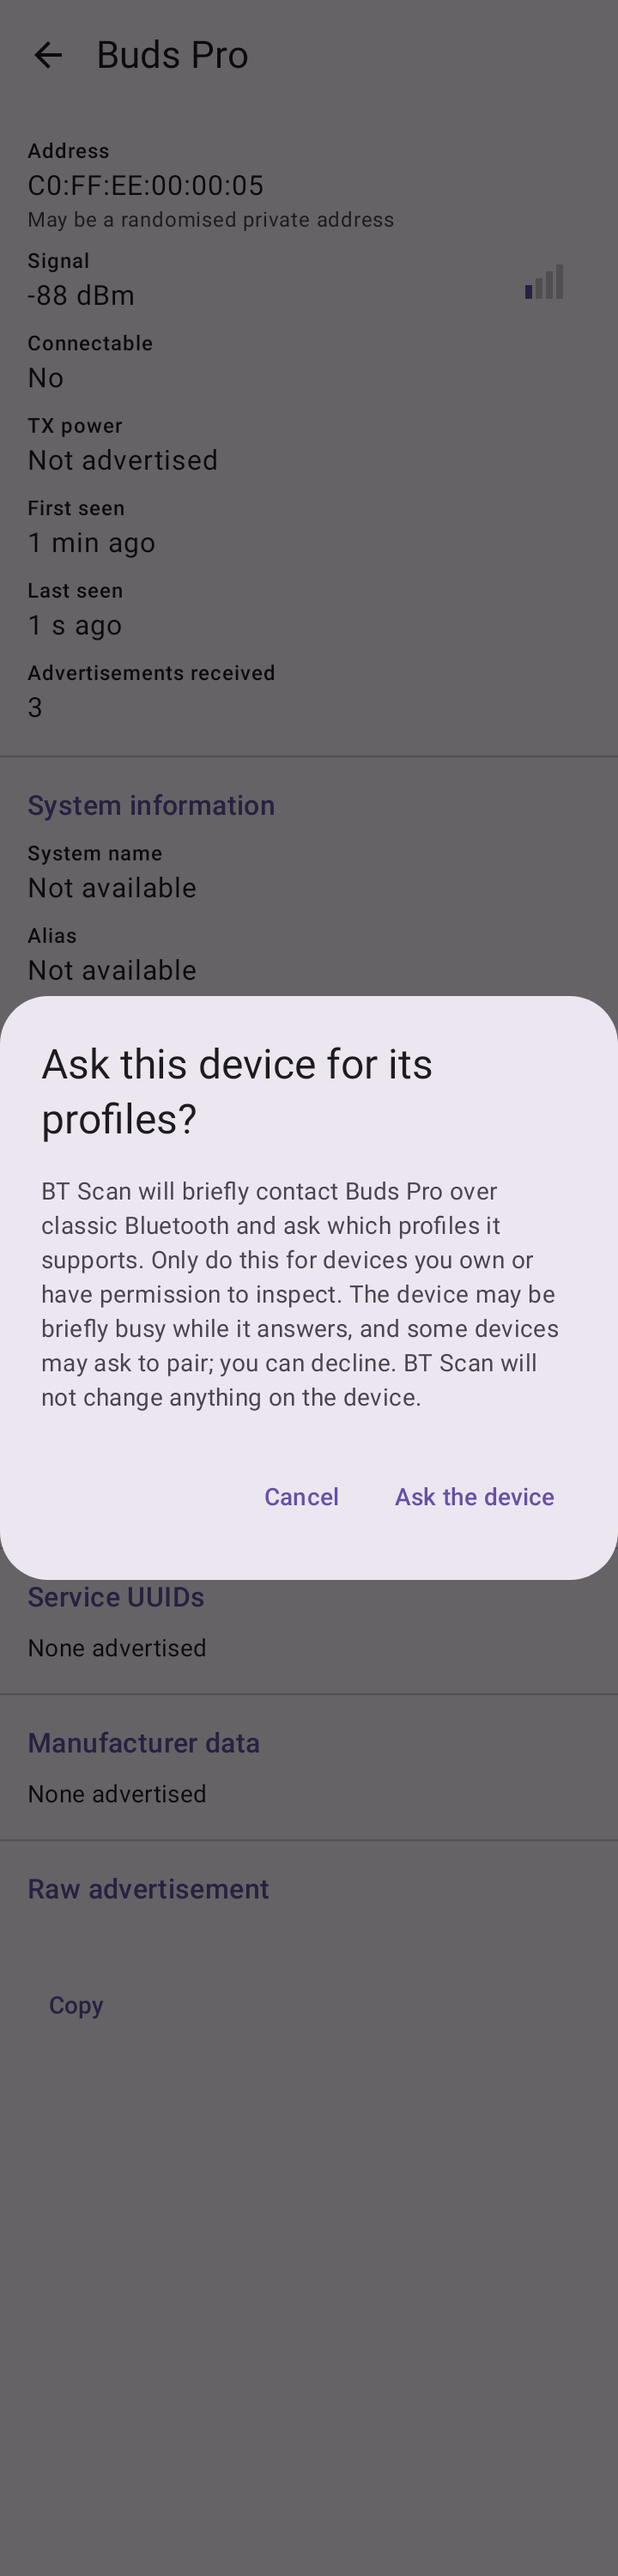
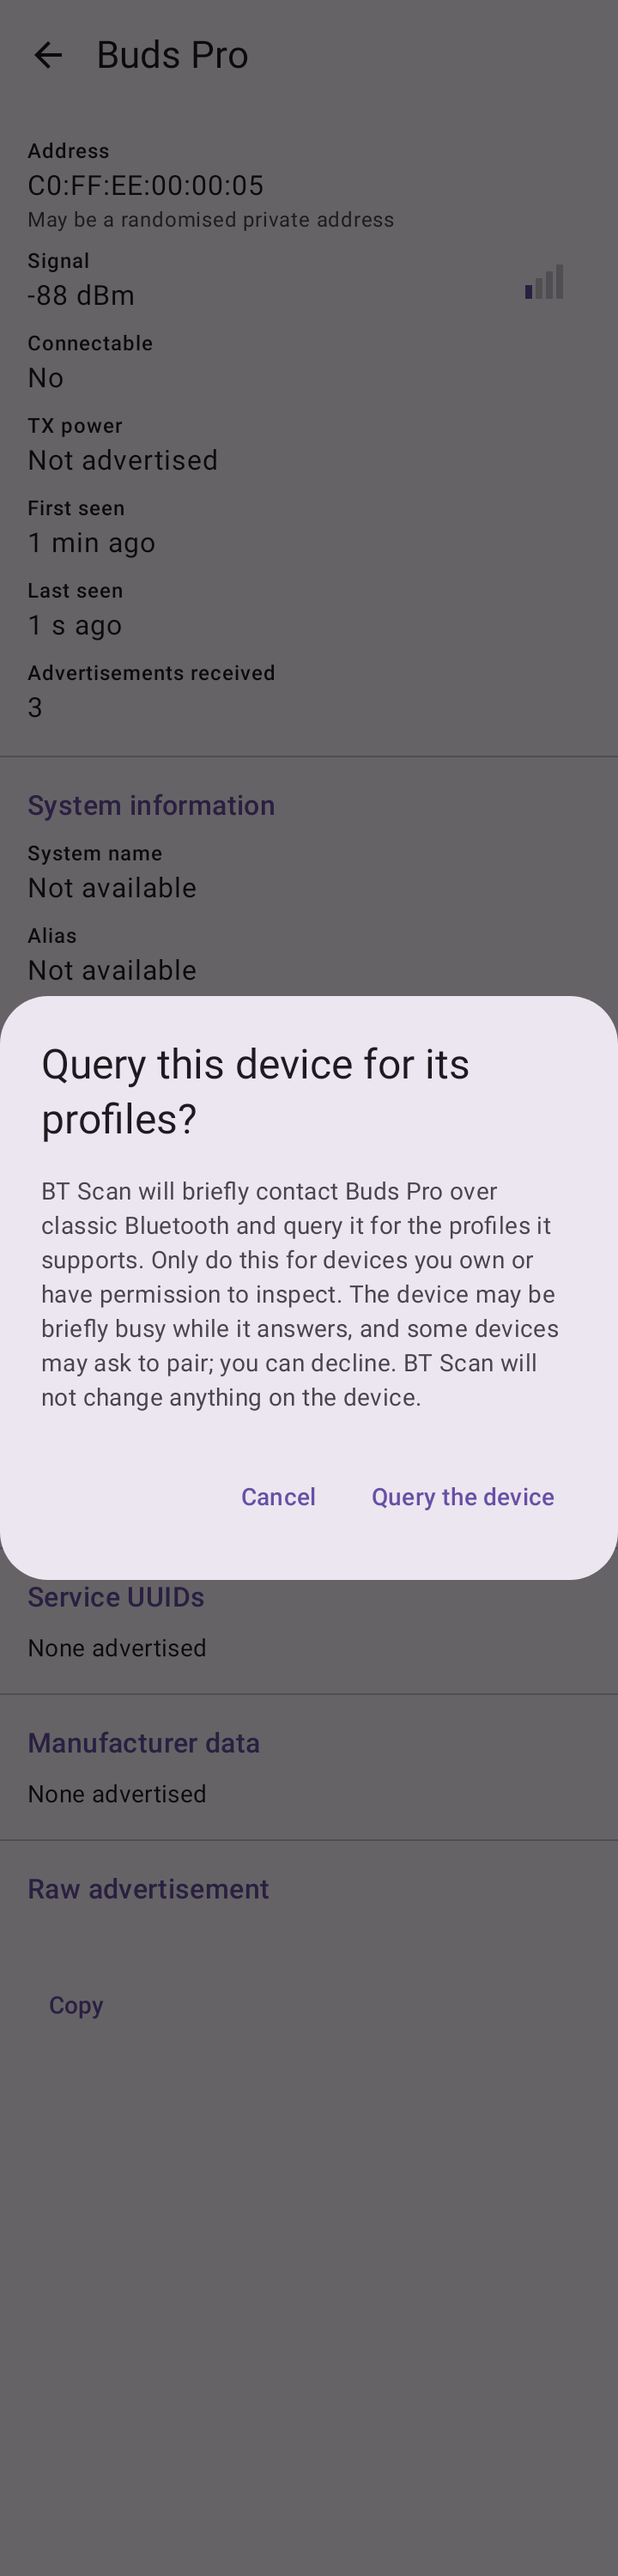
Reword the profile lookup text from "ask" to "query"; record owner approval
All user-visible text about contacting a device now says query (dialog, button,
progress, results, timeout, "could not query", and the System information
permission sentence). "Some devices may ask to pair" and the permission-request
wording keep "ask": there the device or the app asks the user. The fake lookup's
call log is renamed asked -> queried, ask() -> query(), tests and smoke labels
follow, and the detail screenshots are re-recorded. Docs updated. The owner
approved the revised wording on 2026-11-17 (lookup dialog and texts, and the two
changed System information sentences); the classic scan notice stays awaiting
review. Full gate passes.

diff --git a/app/src/test/kotlin/dev/danielhood/btscan/ui/detail/ProfileLookupGateTest.kt b/app/src/test/kotlin/dev/danielhood/btscan/ui/detail/ProfileLookupGateTest.kt
@@ -38,7 +38,7 @@ import java.util.UUID
 /**
  * The UI gate for the classic service lookup. Unlike every other read in the app it CONTACTS the device, so it only
  * ever happens after the user tapped the button for that device and confirmed a dialog naming it, every time. The
- * port's call log (`asked`) is the evidence: it must stay empty on every other path.
+ * port's call log (`queried`) is the evidence: it must stay empty on every other path.
  */
 @OptIn(ExperimentalCoroutinesApi::class)
 class ProfileLookupGateTest {
@@ -102,18 +102,18 @@ class ProfileLookupGateTest {
     }
 
     @Test
-    fun `tapping the button shows the confirmation and asks nobody`() =
+    fun `tapping the button shows the confirmation and queries nobody`() =
         runTest {
             val r = rig()
             assertTrue(r.state.canLookUpProfiles)
             r.vm.onLookUpProfilesClicked()
             advance(0)
             assertEquals(ProfileLookupState.Confirming, r.state.profiles)
-            assertTrue("nothing has contacted the device", r.lookup.asked.isEmpty())
+            assertTrue("nothing has contacted the device", r.lookup.queried.isEmpty())
         }
 
     @Test
-    fun `cancelling asks nobody and the next tap asks for confirmation again`() =
+    fun `cancelling queries nobody and the next tap shows the confirmation again`() =
         runTest {
             val r = rig()
             r.vm.onLookUpProfilesClicked()
@@ -123,17 +123,17 @@ class ProfileLookupGateTest {
             r.vm.onLookUpProfilesClicked()
             advance(0)
             assertEquals(ProfileLookupState.Confirming, r.state.profiles)
-            assertTrue(r.lookup.asked.isEmpty())
+            assertTrue(r.lookup.queried.isEmpty())
         }
 
     @Test
-    fun `confirming asks exactly this device once and shows the profiles`() =
+    fun `confirming queries exactly this device once and shows the profiles`() =
         runTest {
             val r = rig()
             r.vm.onLookUpProfilesClicked()
             r.vm.confirmProfileLookup()
             advance(0)
-            assertEquals(listOf(r.address), r.lookup.asked)
+            assertEquals(listOf(r.address), r.lookup.queried)
             assertEquals(ProfileLookupState.Done(listOf(a2dp, hfp)), r.state.profiles)
         }
 
@@ -144,11 +144,11 @@ class ProfileLookupGateTest {
             r.vm.confirmProfileLookup() // no tap, no dialog
             advance(100)
             assertEquals(ProfileLookupState.Idle, r.state.profiles)
-            assertTrue("a stray confirm cannot contact a device", r.lookup.asked.isEmpty())
+            assertTrue("a stray confirm cannot contact a device", r.lookup.queried.isEmpty())
         }
 
     @Test
-    fun `no other path asks a device`() =
+    fun `no other path queries a device`() =
         runTest {
             val r = rig(permission = PermissionState.Denied(canAskAgain = true))
             r.permissions.connect = PermissionState.Granted
@@ -158,7 +158,7 @@ class ProfileLookupGateTest {
             r.vm.dismissProfileLookup()
             r.vm.cancelProfileLookup()
             advance(100)
-            assertTrue("system information loads without asking the device", r.lookup.asked.isEmpty())
+            assertTrue("system information loads without querying the device", r.lookup.queried.isEmpty())
             assertTrue(r.state.systemInfo is SystemInfoState.Loaded)
         }
 
@@ -169,14 +169,14 @@ class ProfileLookupGateTest {
             r.vm.onLookUpProfilesClicked()
             r.vm.confirmProfileLookup()
             advance(0)
-            assertEquals(1, r.lookup.asked.size)
+            assertEquals(1, r.lookup.queried.size)
             r.vm.onLookUpProfilesClicked()
             advance(0)
-            assertEquals("asked again before anything is sent", ProfileLookupState.Confirming, r.state.profiles)
-            assertEquals(1, r.lookup.asked.size)
+            assertEquals("queried again before anything is sent", ProfileLookupState.Confirming, r.state.profiles)
+            assertEquals(1, r.lookup.queried.size)
             r.vm.confirmProfileLookup()
             advance(0)
-            assertEquals(2, r.lookup.asked.size)
+            assertEquals(2, r.lookup.queried.size)
         }
 
     @Test
@@ -187,7 +187,7 @@ class ProfileLookupGateTest {
             r.vm.onLookUpProfilesClicked()
             advance(0)
             assertEquals(ProfileLookupState.Idle, r.state.profiles)
-            assertTrue(r.lookup.asked.isEmpty())
+            assertTrue(r.lookup.queried.isEmpty())
         }
 
     @Test
@@ -218,7 +218,7 @@ class ProfileLookupGateTest {
             assertEquals(ProfileLookupState.Running, r.state.profiles)
             advance(200)
             assertEquals(ProfileLookupState.TimedOut, r.state.profiles)
-            assertEquals(1, r.lookup.asked.size)
+            assertEquals(1, r.lookup.queried.size)
         }
 
     @Test
@@ -233,7 +233,7 @@ class ProfileLookupGateTest {
             advance(100)
             assertEquals(ProfileLookupState.Running, r.state.profiles)
             advance(2_000)
-            assertEquals(1, r.lookup.asked.size)
+            assertEquals(1, r.lookup.queried.size)
             assertTrue(r.state.profiles is ProfileLookupState.Done)
         }
 
@@ -296,7 +296,7 @@ class ProfileLookupGateTest {
             advance(0)
             advance(0) // the quiet refresh is launched by the lookup's own coroutine
             assertEquals("a second read of the cache, not a second question to the device", 2, source.lookups.size)
-            assertEquals(1, r.lookup.asked.size)
+            assertEquals(1, r.lookup.queried.size)
             val loaded = r.state.systemInfo as SystemInfoState.Loaded
             assertEquals(listOf(a2dp), loaded.info.cachedUuids)
             assertEquals(BondState.BONDING, loaded.info.bondState)

diff --git a/app/src/test/kotlin/dev/danielhood/btscan/ui/detail/DeviceDetailContentTest.kt b/app/src/test/kotlin/dev/danielhood/btscan/ui/detail/DeviceDetailContentTest.kt
@@ -295,7 +295,7 @@ class DeviceDetailContentTest {
         rule
             .onNodeWithTag(
                 TestTags.SYSTEM_INFO_MESSAGE,
-            ).assertTextContains("contacts a device only when you ask it to", substring = true)
+            ).assertTextContains("contacts a device only when you choose to query it", substring = true)
         rule.onNodeWithTag(TestTags.SYSTEM_INFO_ALLOW_BUTTON).performClick()
         assertEquals(listOf("allow"), calls)
         rule.onNodeWithTag(TestTags.SYSTEM_INFO_SETTINGS_BUTTON).assertDoesNotExist()
@@ -384,7 +384,7 @@ class DeviceDetailContentTest {
             ).performScrollTo()
             .assertTextEquals("Look up supported profiles")
             .performClick()
-        assertEquals("a tap only asks to confirm", listOf("lookup"), calls)
+        assertEquals("a tap only opens the confirmation", listOf("lookup"), calls)
         rule.onNodeWithTag(ProfileTags.DIALOG).assertDoesNotExist()
     }
 
@@ -395,7 +395,7 @@ class DeviceDetailContentTest {
     }
 
     @Test
-    fun `the confirmation names the device, warns, and only Ask the device confirms`() {
+    fun `the confirmation names the device, warns, and only Query the device confirms`() {
         show(lookup(ProfileLookupState.Confirming))
         rule.onNodeWithTag(ProfileTags.DIALOG).assertExists()
         rule
@@ -418,18 +418,22 @@ class DeviceDetailContentTest {
     fun `the button is disabled while a lookup runs and the progress text shows`() {
         show(lookup(ProfileLookupState.Running))
         rule.onNodeWithTag(ProfileTags.BUTTON).assertIsNotEnabled()
-        rule.onNodeWithTag(ProfileTags.RUNNING).assertTextEquals("Asking the device\u2026")
+        rule.onNodeWithTag(ProfileTags.RUNNING).assertTextEquals("Querying the device\u2026")
     }
 
     @Test
-    fun `answers are shown with friendly names and say they were asked just now`() {
+    fun `answers are shown with friendly names and say they were queried just now`() {
         val uuids =
             listOf(0x110B, 0x111E).map {
                 dev.danielhood.btscan.domain.parser.AdvertisementParser
                     .uuidFromShort(it.toLong())
             }
         show(lookup(ProfileLookupState.Done(uuids)))
-        rule.onNodeWithTag(ProfileTags.HEADER).performScrollTo().assertTextEquals("Supported profiles (asked just now)")
+        rule
+            .onNodeWithTag(
+                ProfileTags.HEADER,
+            ).performScrollTo()
+            .assertTextEquals("Supported profiles (queried just now)")
         rule.onNodeWithTag(ProfileTags.name(0)).assertTextEquals("A2DP Audio Sink")
         rule.onNodeWithTag(ProfileTags.name(1)).assertTextEquals("Hands-Free")
         rule.onNodeWithText("BT Scan changes nothing on it.", substring = true).assertExists()
@@ -448,8 +452,8 @@ class DeviceDetailContentTest {
     }
 
     @Test
-    fun `a refused query says android could not ask`() {
+    fun `a refused query says android could not query`() {
         show(lookup(ProfileLookupState.NotStarted))
-        rule.onNodeWithTag(ProfileTags.NOT_STARTED).assertTextEquals("Android could not ask this device.")
+        rule.onNodeWithTag(ProfileTags.NOT_STARTED).assertTextEquals("Android could not query this device.")
     }
 }

diff --git a/app/src/debug/kotlin/dev/danielhood/btscan/data/ble/fake/FakeProfileLookup.kt b/app/src/debug/kotlin/dev/danielhood/btscan/data/ble/fake/FakeProfileLookup.kt
@@ -8,7 +8,7 @@ import kotlinx.coroutines.awaitCancellation
 import kotlinx.coroutines.delay
 import java.util.UUID
 
-/** What a fake device does when asked which profiles it supports. */
+/** What a fake device does when queried for the profiles it supports. */
 sealed interface FakeProfileBehaviour {
     /** Answers with [uuids] after [delayMs]. */
     data class Answers(
@@ -31,12 +31,12 @@ class FakeProfileLookup(
     private val permissions: PermissionChecker,
     private val behaviours: Map<String, FakeProfileBehaviour>,
 ) : ProfileLookup {
-    /** Addresses that were asked, in order (a test or smoke script can assert that nothing was asked unprompted). */
-    val asked = mutableListOf<String>()
+    /** Addresses that were queried, in order (tests and smoke scripts assert nothing is queried unprompted). */
+    val queried = mutableListOf<String>()
 
     override suspend fun fetchProfiles(address: String): ProfileLookupResult {
         if (permissions.connectState() !is PermissionState.Granted) return ProfileLookupResult.PermissionMissing
-        asked += address
+        queried += address
         return when (val behaviour = behaviours[address]) {
             is FakeProfileBehaviour.Answers -> {
                 delay(behaviour.delayMs)

diff --git a/app/src/test/kotlin/dev/danielhood/btscan/data/ble/fake/FakeProfileLookupTest.kt b/app/src/test/kotlin/dev/danielhood/btscan/data/ble/fake/FakeProfileLookupTest.kt
@@ -25,7 +25,7 @@ class FakeProfileLookupTest {
             val fake = lookup()
             val result = fake.fetchProfiles(addresses[0])
             assertEquals(4, (result as ProfileLookupResult.Profiles).uuids.size)
-            assertEquals(listOf(addresses[0]), fake.asked)
+            assertEquals(listOf(addresses[0]), fake.queried)
         }
 
     @Test
@@ -46,11 +46,11 @@ class FakeProfileLookupTest {
         }
 
     @Test
-    fun `the fake honours the real permission and asks nobody without it`() =
+    fun `the fake honours the real permission and queries nobody without it`() =
         runTest {
             val permissions = FakePermissionChecker(connect = PermissionState.Denied(canAskAgain = true))
             val fake = lookup(permissions)
             assertEquals(ProfileLookupResult.PermissionMissing, fake.fetchProfiles(addresses[0]))
-            assertTrue(fake.asked.isEmpty())
+            assertTrue(fake.queried.isEmpty())
         }
 }

diff --git a/app/src/test/kotlin/dev/danielhood/btscan/testing/TestSupport.kt b/app/src/test/kotlin/dev/danielhood/btscan/testing/TestSupport.kt
@@ -53,7 +53,7 @@ class FakePermissionChecker(
 }
 
 /**
- * Profile lookup whose answer the test sets; records every address it was asked, which is the evidence that a
+ * Profile lookup whose answer the test sets; records every address it was queried for, which is the evidence that a
  * lookup (which contacts the device) never happens without the user's confirmation. [silent] never answers.
  */
 class ManualProfileLookup(
@@ -61,10 +61,10 @@ class ManualProfileLookup(
     var silent: Boolean = false,
     var delayMs: Long = 0,
 ) : ProfileLookup {
-    val asked = mutableListOf<String>()
+    val queried = mutableListOf<String>()
 
     override suspend fun fetchProfiles(address: String): ProfileLookupResult {
-        asked += address
+        queried += address
         if (silent) awaitCancellation()
         if (delayMs > 0) delay(delayMs)
         return result

diff --git a/app/src/main/kotlin/dev/danielhood/btscan/ui/detail/DeviceDetailUiState.kt b/app/src/main/kotlin/dev/danielhood/btscan/ui/detail/DeviceDetailUiState.kt
@@ -78,9 +78,9 @@ sealed interface SystemInfoState {
 }
 
 /**
- * Asking a device which profiles it supports (Tier 2c). This CONTACTS the device, so it never leaves [Idle] without an
- * explicit tap, and [Confirming] (a dialog naming the device) always comes first: nothing has contacted it until the
- * user confirms. There is no "remember my answer".
+ * Querying a device for the profiles it supports (Tier 2c). This CONTACTS the device, so it never leaves [Idle]
+ * without an explicit tap, and [Confirming] (a dialog naming the device) always comes first: nothing has contacted
+ * it until the user confirms. There is no "remember my answer".
  */
 sealed interface ProfileLookupState {
     data object Idle : ProfileLookupState

diff --git a/app/src/main/kotlin/dev/danielhood/btscan/data/ble/android/AndroidProfileLookup.kt b/app/src/main/kotlin/dev/danielhood/btscan/data/ble/android/AndroidProfileLookup.kt
@@ -34,11 +34,11 @@ class AndroidProfileLookup(
         return when {
             permissions.connectState() !is PermissionState.Granted -> ProfileLookupResult.PermissionMissing
             adapter == null || !BluetoothAdapter.checkBluetoothAddress(address) -> ProfileLookupResult.NotStarted
-            else -> ask(adapter.getRemoteDevice(address))
+            else -> query(adapter.getRemoteDevice(address))
         }
     }
 
-    private suspend fun ask(device: BluetoothDevice): ProfileLookupResult =
+    private suspend fun query(device: BluetoothDevice): ProfileLookupResult =
         suspendCancellableCoroutine { continuation ->
             val unregistered = AtomicBoolean(false)
             val receiver =

diff --git a/app/src/main/kotlin/dev/danielhood/btscan/ui/detail/SystemInfoSection.kt b/app/src/main/kotlin/dev/danielhood/btscan/ui/detail/SystemInfoSection.kt
@@ -95,8 +95,8 @@ internal class ProfileLookupActions(
 )
 
 /**
- * Tier 2c: ask the device which profiles it supports. This contacts the device, so the button only opens a dialog
- * naming the device; nothing is asked until the user confirms it, every time.
+ * Tier 2c: query the device for the profiles it supports. This contacts the device, so the button only opens a dialog
+ * naming the device; nothing is queried until the user confirms it, every time.
  */
 @Composable
 private fun ProfileLookupBlock(lookup: ProfileLookupUi, actions: ProfileLookupActions) {

diff --git a/app/src/main/kotlin/dev/danielhood/btscan/domain/port/Ports.kt b/app/src/main/kotlin/dev/danielhood/btscan/domain/port/Ports.kt
@@ -34,7 +34,7 @@ interface PermissionChecker {
 }
 
 /**
- * Asks one device which profiles it supports (a classic service lookup). Unlike everything else in the app this
+ * Queries one device for the profiles it supports (a classic service lookup). Unlike everything else in the app this
  * CONTACTS the device: a short classic session. It is started only from an explicit tap on that device's detail screen
  * after a confirmation naming it (see DeviceDetailViewModel); the caller applies the timeout. Never pairs.
  */

diff --git a/app/src/test/kotlin/dev/danielhood/btscan/data/ble/android/AndroidProfileLookupTest.kt b/app/src/test/kotlin/dev/danielhood/btscan/data/ble/android/AndroidProfileLookupTest.kt
@@ -39,7 +39,7 @@ class AndroidProfileLookupTest {
         shadowOf(app).registeredReceivers.count { it.intentFilter.hasAction(BluetoothDevice.ACTION_UUID) }
 
     @Test
-    fun `without the connect permission nothing is asked`() =
+    fun `without the connect permission nothing is queried`() =
         runBlocking {
             assertEquals(ProfileLookupResult.PermissionMissing, lookup().fetchProfiles(address))
             assertEquals("no receiver was left registered", 0, registeredUuidReceivers())

diff --git a/app/src/main/kotlin/dev/danielhood/btscan/ui/detail/DeviceDetailViewModel.kt b/app/src/main/kotlin/dev/danielhood/btscan/ui/detail/DeviceDetailViewModel.kt
@@ -114,7 +114,7 @@ class DeviceDetailViewModel(
         profiles.value = ProfileLookupState.Confirming
     }
 
-    /** The user confirmed the dialog naming this device: ask it (10 s limit). Ignored without a pending dialog. */
+    /** The user confirmed the dialog naming this device: query it (10 s limit). Ignored without a pending dialog. */
     fun confirmProfileLookup() {
         if (profiles.value != ProfileLookupState.Confirming) return
         profiles.value = ProfileLookupState.Running

diff --git a/app/src/debug/kotlin/dev/danielhood/btscan/DebugOverridesImpl.kt b/app/src/debug/kotlin/dev/danielhood/btscan/DebugOverridesImpl.kt
@@ -51,7 +51,7 @@ class DebugOverridesImpl : DebugOverrides {
             }
         }
 
-    /** One fake lookup per launch config: its `asked` list is the evidence that nothing was asked unprompted. */
+    /** One fake lookup per launch config: its `queried` list is the evidence that nothing was queried unprompted. */
     override fun profileLookupFor(config: DebugConfig, permissions: PermissionChecker): ProfileLookup? =
         when (config.scanner) {
             SCANNER_FAKE -> {
